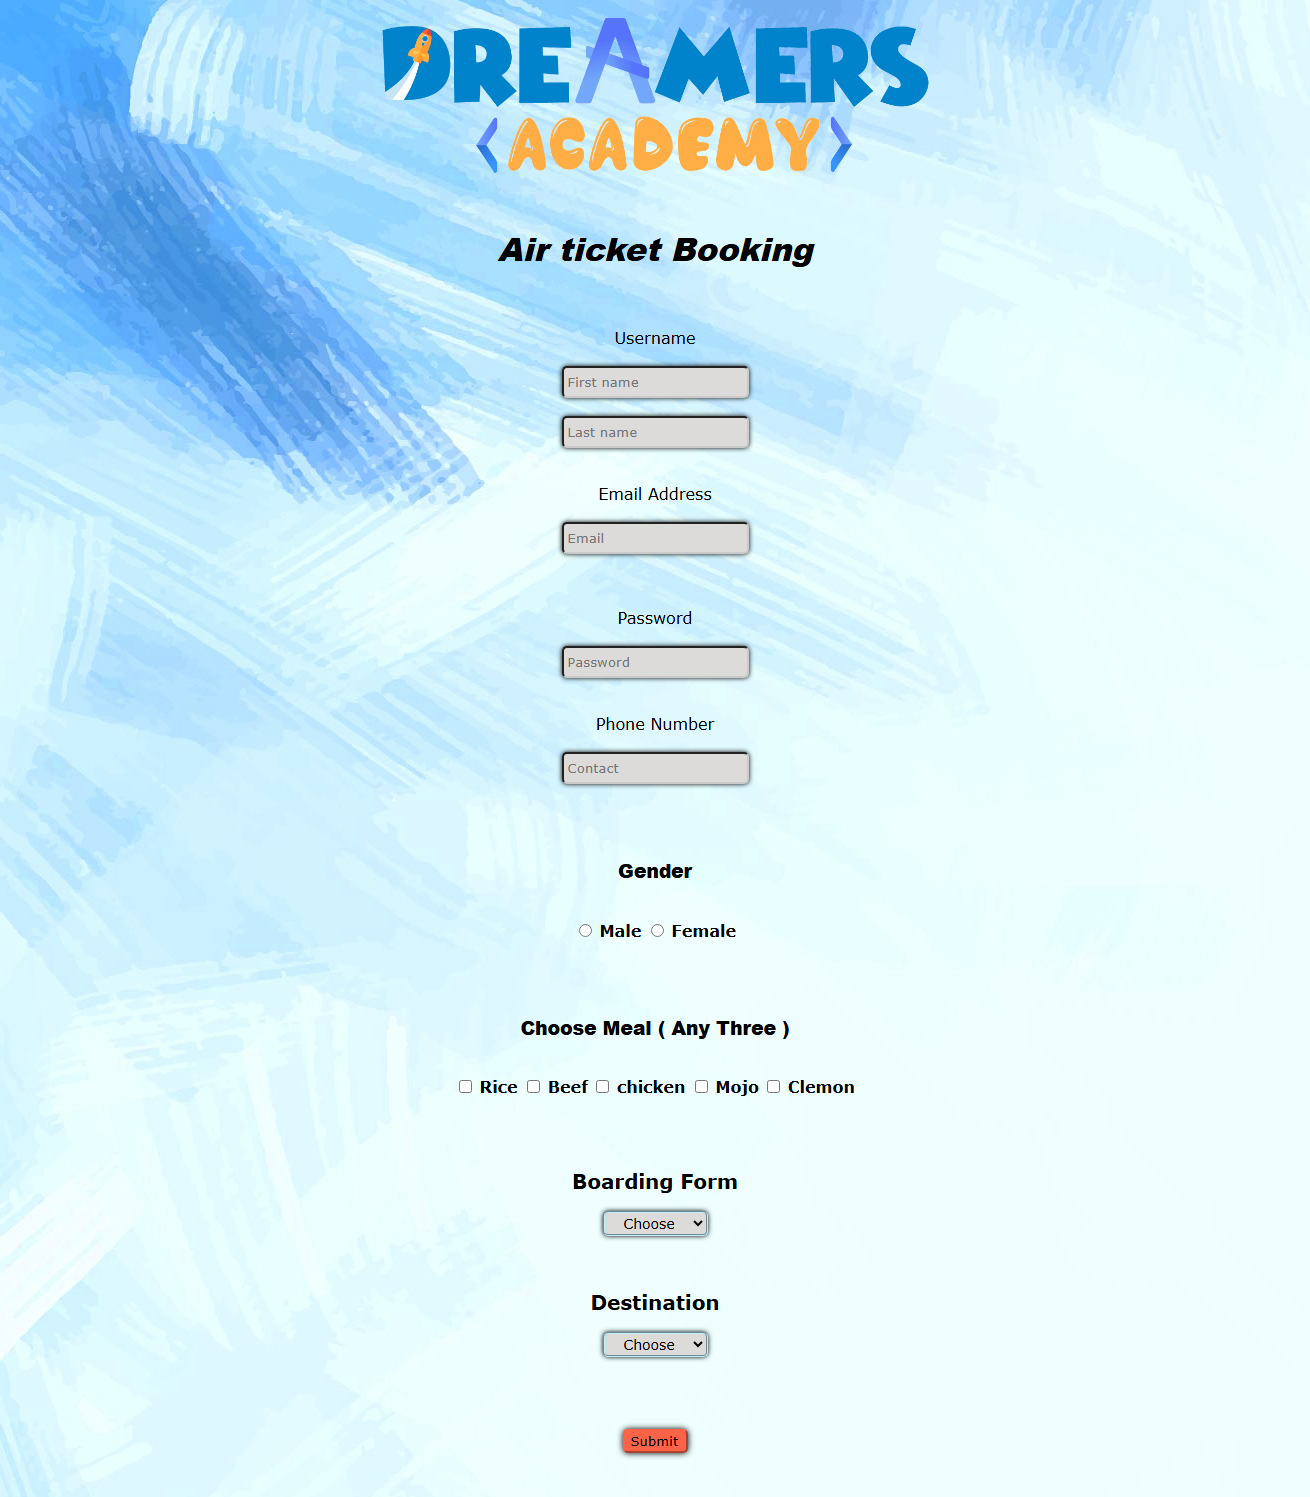
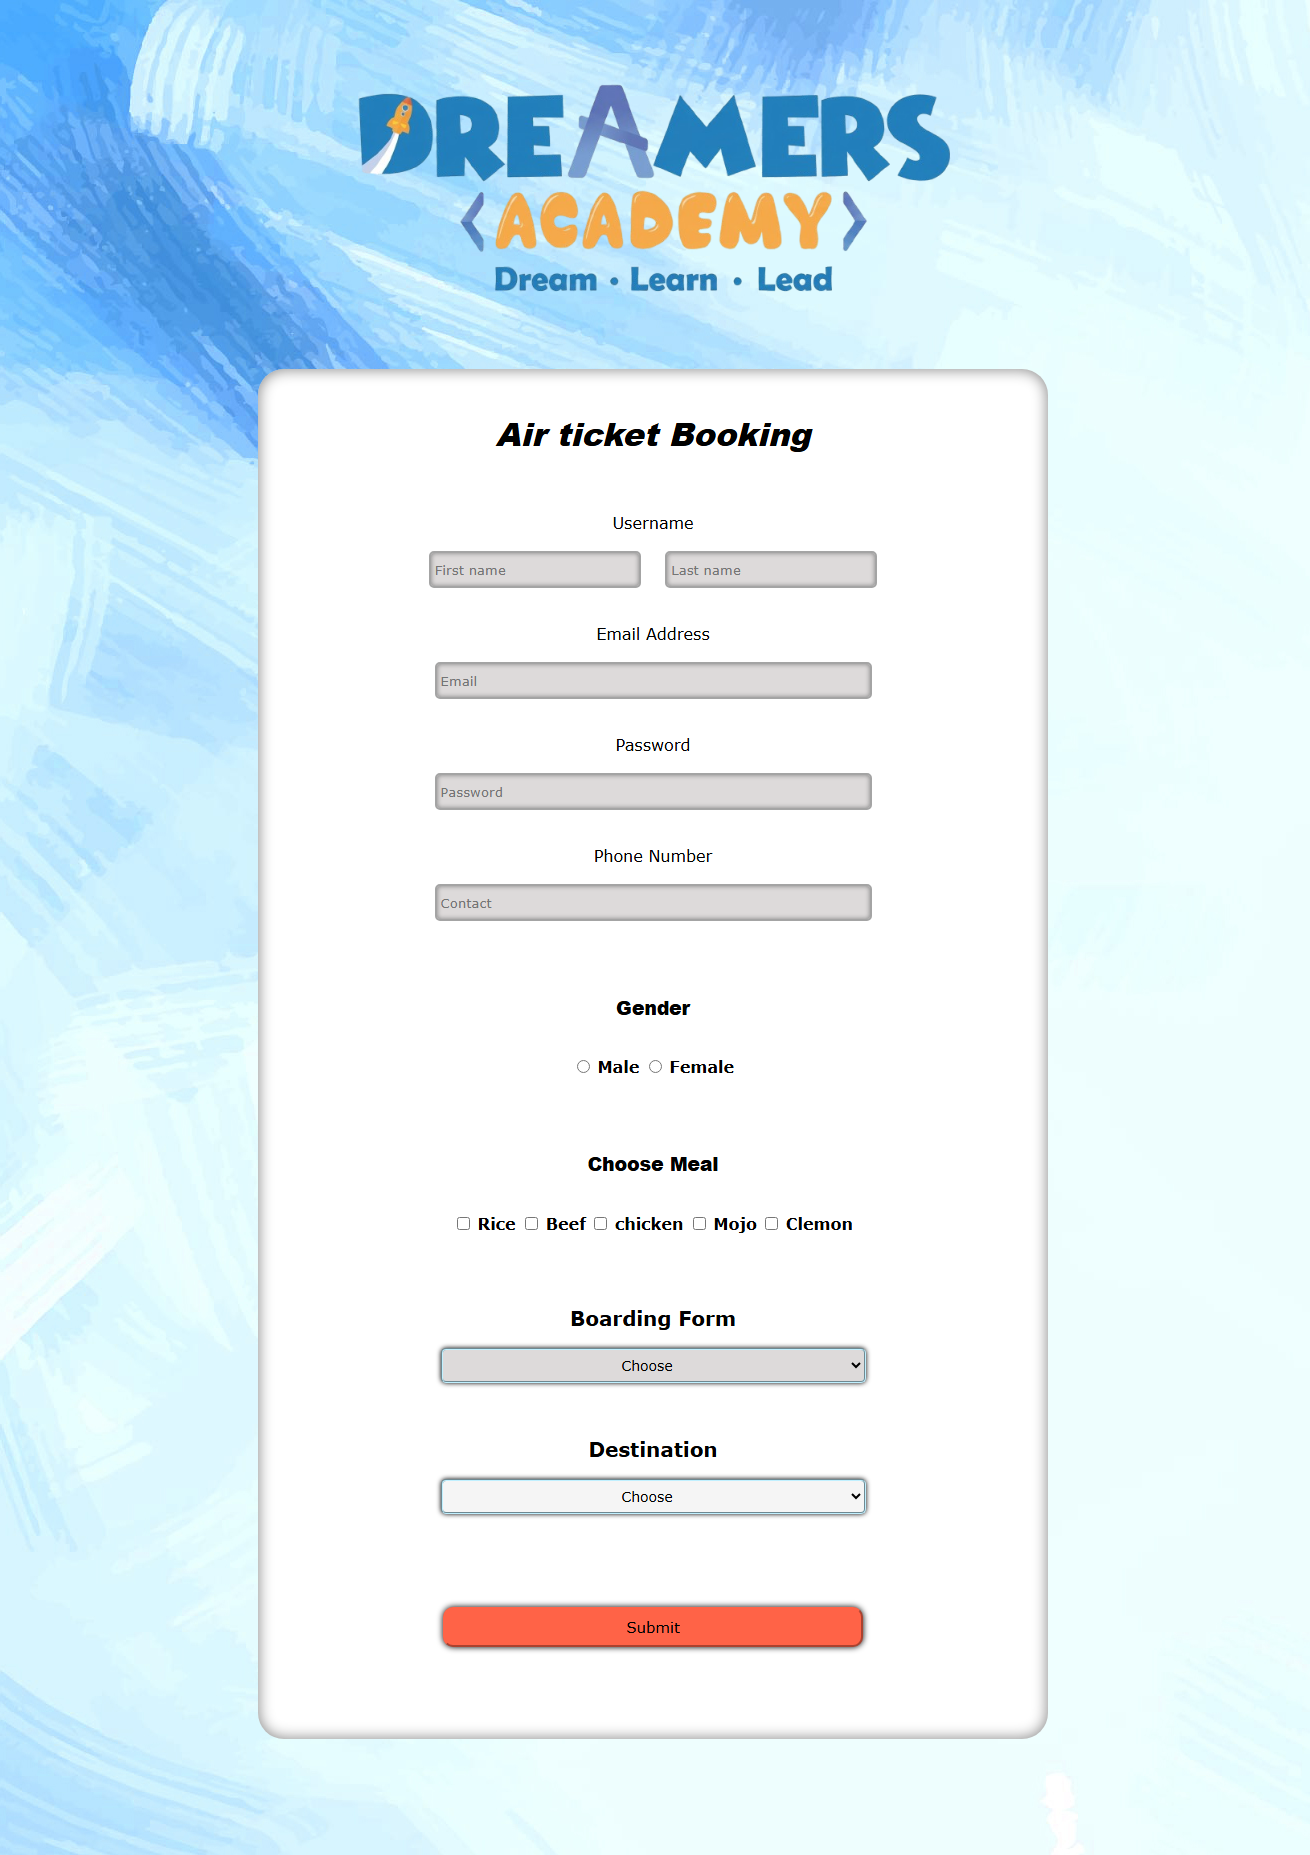
Initial commit - website setup

diff --git a/class 7 project.html b/class 7 project.html
@@ -7,75 +7,77 @@
     <link rel="stylesheet" href="class 7 project.css">
 </head>
     
-<body style="font-family: Verdana;">
+<body style="font-family: sans-serif; text-align: center;">
 
     
     <br><br><br>
     <img src="images/logo.png" alt="logo" width="50%"><br><br>
     <br><br>
-    <h1><b><i>Air ticket Booking</i></b></h1><br><br>
-    
-    <form action="class 7 (2) .project.html">
-        <label style="font-family: Verdana;">Username</label><br>
-        <br><input type="text" class="box1" id="fname" name="fname" placeholder="First name" style="cursor: text;"><br>
-        <br><input type="text" class="box1" id="lname" name="lname" placeholder="Last name" style="cursor: text;"><br>
-
-        <br><br><label style="font-family: Verdana;" >Email Address</label>
-        <br><br><input type="email" class="box1" id="email" name="email" placeholder="Email" style="cursor: text;"><br><br>
-        <br><br><label style="font-family: Verdana;">Password</label><br>
-       <br><input type="password" class="box1" id="Password" name="Password" placeholder="Password" style="cursor: text;"><br>
-       <br><br><label style="font-family: Verdana;">Phone Number</label><br>
-        <br><input type="number" class="box1" id="number" name="number" placeholder="Contact " style="cursor: text;"><br>
+    <div style="background-color: #FFFFFF; height: 1330px; width: 750px; border-radius: 26px; padding: 20px; margin-left: 250px; box-shadow: inset grey 0px 0px 15px;">
+        <h1><b><i>Air ticket Booking</i></b></h1><br><br>
         
-        <br><br><br><h3 style="cursor: default;"><b>Gender</b></h3><br>
-        <input type="radio" class="Gender" name="Gender" value="male" style="cursor: pointer;">
-        <label style="font-family: Verdana;"> <b>Male</b></label>
-        <input type="radio" class="Gender" name="Gender" value="female" style="cursor: pointer;">
-        <label style="font-family: Verdana;"> <b>Female</b></label><br><br>
+        <form onsubmit="return valid()" action="class 7 (2) .project.html">
+            <label style="font-family: Verdana;">Username</label><br>
+            <br><input type="text" class="box1" id="fname" name="fname" placeholder="First name" style="cursor: text;">
+            <input type="text" class="box1" id="lname" name="lname" placeholder="Last name" style="cursor: text;"><br>
 
-        <br><br><h3 style="cursor: default;"> <b>Choose Meal ( Any Three )</b> </h3><br>
-        <input type="checkbox" class="Meal" name="Choose Meal" value="rice" style="cursor: pointer;">
-        <label style="font-family: Verdana;"><b>Rice</b> </label>
-        <input type="checkbox" class="Meal" name="Choose Meal" value="beef" style="cursor: pointer;">
-        <label style="font-family: Verdana;"> <b>Beef</b></label>
-        <input type="checkbox" class="Meal" name="Choose Meal" value="chicken" style="cursor: pointer;">
-        <label style="font-family: Verdana;"><b>chicken</b> </label>
-        <input type="checkbox" class="Meal" name="Choose Meal" value="pepsi" style="cursor: pointer;">
-        <label style="font-family: Verdana;"><b>Mojo</b></label>
-        <input type="checkbox" class="Meal" name="Choose Meal" value="clemon" style="cursor: pointer;">
-        <label style="font-family: Verdana;"><b>Clemon</b></label><br><br><br>
-        <br><br><label style="font-family: Verdana; font-size: 20px;"><b>Boarding Form</b> </label>
-        
-        <br><br><select name="boarding" class="boarding" >
+            <br><br><label style="font-family: Verdana;" >Email Address</label>
+            <br><br><input type="email" class="box1" id="email" name="email" placeholder="Email" style="cursor: text;"><br>
+            <br><br><label style="font-family: Verdana;">Password</label><br>
+            <br><input type="password" class="box1" id="Password" name="Password" placeholder="Password" style="cursor: text;"><br>
+            <br><br><label style="font-family: Verdana;">Phone Number</label><br>
+            <br><input type="number" class="box1" id="number" name="number" placeholder="Contact " style="cursor: text;"><br>
             
-            <option>Choose</option>
-            <option  value="Dhaka">Dhaka</option>
-            <option  value="Chittagong">Chittagong</option>
-            <option  value="Cox's Bazar">Cox's Bazar</option>
-            <option  value="Sylhet">Sylhet</option>
-            <option  value="Rajshahi">Rajshahi</option>
-            <option  value="Saidpur">Saidpur</option>
-        </select><br><br>
-        <br><br><label style="font-family: Verdana; font-size: 20px;"><b>Destination</b></label>
+            <br><br><br><h3 style="cursor: default;"><b>Gender</b></h3><br>
+            <input type="radio" class="Gender" name="Gender" id="Gender" value="male" style="cursor: pointer;">
+            <label style="font-family: Verdana;"> <b>Male</b></label>
+            <input type="radio" class="Gender" name="Gender" id="Gender" value="female" style="cursor: pointer;">
+            <label style="font-family: Verdana;"> <b>Female</b></label><br><br>
 
-        <br><br><select name="destination" class="destination" >
+            <br><br><h3 style="cursor: default;"> <b>Choose Meal</b> </h3><br>
+            <input type="checkbox" class="Meal" name="Choose Meal" id="Meal" value="rice" style="cursor: pointer;">
+            <label style="font-family: Verdana;"><b>Rice</b> </label>
+            <input type="checkbox" class="Meal" name="Choose Meal" id="Meal" value="beef" style="cursor: pointer;">
+            <label style="font-family: Verdana;"> <b>Beef</b></label>
+            <input type="checkbox" class="Meal" name="Choose Meal" id="Meal" value="chicken" style="cursor: pointer;">
+            <label style="font-family: Verdana;"><b>chicken</b> </label>
+            <input type="checkbox" class="Meal" name="Choose Meal" id="Meal" value="pepsi" style="cursor: pointer;">
+            <label style="font-family: Verdana;"><b>Mojo</b></label>
+            <input type="checkbox" class="Meal" name="Choose Meal" id="Meal" value="clemon" style="cursor: pointer;">
+            <label style="font-family: Verdana;"><b>Clemon</b></label><br><br><br>
+            <br><br><label style="font-family: Verdana; font-size: 20px;"><b>Boarding Form</b> </label>
             
-            <option>Choose</option>
-            <option  value="Dhaka">Dhaka</option>
-            <option  value="Chittagong">Chittagong</option>
-            <option  value="Cox's Bazar">Cox's Bazar</option>
-            <option  value="Sylhet">Sylhet</option>
-            <option  value="Rajshahi">Rajshahi</option>
-            <option  value="Saidpur">Saidpur</option>
-        </select><br><br>
+            <br><br><select name="boarding" class="boarding" id="boarding">
+                
+                <option value="Choose">Choose</option>
+                <option  value="Dhaka">Dhaka</option>
+                <option  value="Chittagong">Chittagong</option>
+                <option  value="Cox's Bazar">Cox's Bazar</option>
+                <option  value="Sylhet">Sylhet</option>
+                <option  value="Rajshahi">Rajshahi</option>
+                <option  value="Saidpur">Saidpur</option>
+            </select><br><br>
+            <br><br><label style="font-family: Verdana; font-size: 20px;"><b>Destination</b></label>
 
+            <br><br><select name="destination" class="destination" id="destination">
+                
+                <option value="Choose">Choose</option>
+                <option  value="Dhaka">Dhaka</option>
+                <option  value="Chittagong">Chittagong</option>
+                <option  value="Cox's Bazar">Cox's Bazar</option>
+                <option  value="Sylhet">Sylhet</option>
+                <option  value="Rajshahi">Rajshahi</option>
+                <option  value="Saidpur">Saidpur</option>
+            </select><br><br><br>
 
+            <h4 id="error" style="color: red;"></h4>
 
-
-
-        <br><br><br><button style="cursor: pointer; width: 85px; text-align: center; height: 40px; border-radius: 10px; font-size: 15px;">Submit</button> <br><br><br>
+            <br><br><button onclick="valid()" style="cursor: pointer; width: 420px; text-align: center; height: 40px; border-radius: 10px; font-size: 15px;">Submit</button> <br><br><br>
+            
+        </form>
         
-    </form>
-    
+    </div>
+    <br><br><br><br><br><br>
+<script src="class 7 project.js"></script>   
 </body>
 </html>

diff --git a/class 7 project.css b/class 7 project.css
@@ -9,34 +9,59 @@ body {
 .box1{
     
     width: 175px;
-    height: 20px;
-    border: 2px dark black groove;
+    height: 25px;
+    border: 2px rgb(164, 164, 164) double;
     border-radius: 5px;
     box-shadow: 0px 0px 5px;
     padding: 4px;
     background-color: rgb(221, 218, 218);
     font-family: verdana;
+    box-shadow: inset grey 0px 0px 5px;
+    
     
 }
 
 .box1:hover{
     
     width: 175px;
-    height: 20px;
-    border: 2px dark black groove;
+    height: 25px;
+    border: 2px dark whitesmoke groove;
     border-radius: 5px;
     box-shadow: 0px 0px 5px;
     padding: 4px;
     background-color: whitesmoke;
     font-family: verdana;
+    box-shadow: inset rgb(197, 195, 195) 0px 0px 5px;
     
 }
 
+#fname{
+    margin-right: 20px;
+    height: 25px;
+    width: 200px;
+}
+
+#lname{
+    height: 25px;
+    width: 200px;
+}
+
+#email{
+    width: 425px;
+}
+
+#Password{
+    width: 425px;
+}
+
+#number{
+    width: 425px;
+}
 
 .boarding{
     text-align: center;
-    width: 105px;
-    height: 25px;
+    width: 425px;
+    height: 35px;
     border: 2px lightblue groove;
     border-radius: 5px;
     box-shadow: 0px 0px 5px;
@@ -48,8 +73,8 @@ body {
 
 .boarding:hover{
 
-    width: 105px;
-    height: 25px;
+    width: 425px;
+    height: 35px;
     border: 2px lightblue groove;
     border-radius: 5px;
     box-shadow: 0px 0px 5px;
@@ -61,8 +86,8 @@ body {
 .destination{
     text-align: center;
 
-    width: 105px;
-    height: 25px;
+    width: 425px;
+    height: 35px;
     border: 2px lightblue groove;
     border-radius: 5px;
     box-shadow: 0px 0px 5px;
@@ -74,8 +99,8 @@ body {
 .destination:hover{
     text-align: center;
 
-    width: 105px;
-    height: 25px;
+    width: 425px;
+    height: 35px;
     border: 2px lightblue groove;
     border-radius: 5px;
     box-shadow: 0px 0px 5px;
@@ -104,7 +129,7 @@ Button:hover{
     font-family: verdana;
     border-radius: 5px;
     box-shadow: 0px 0px 6px;
-    border-color: lightblue  ;
+    border-color: blue  ;
     text-align: left;
 
 

diff --git a/class 11 26.7.26 .css b/class 11 26.7.26 .css
@@ -4,7 +4,7 @@ body{
     margin-right: 120px;
     font-family: sans-serif;
     background: url(images/BG.png);
-    background-size: 2140px;
+    background-size: 2160px;
 }
 
 
@@ -14,6 +14,14 @@ body{
     float: right;
     font-size: 20px;
     color: rgb(6, 6, 218);
+
+}
+
+#btnl:hover{
+    text-decoration: none;
+    float: right;
+    font-size: 20px;
+    color: rgb(244, 174, 35);
 
 }
 
@@ -34,36 +42,42 @@ body{
 }
 
 .box1{
+    border: 2px black double;
     height: 25px;
     width: 240px;
     background-color: rgb(176, 178, 180);
 }
 
 .box1:hover{
+    border: 2px black double;
     height: 25px;
     width: 240px;
     background-color: whitesmoke;
 }
 
 .box2{
+    border: 2px black double;
     height: 30px;
     width: 510px;
     background-color: rgb(176, 178, 180);
 }
 
 .box2:hover{
+    border: 2px black double;
     height: 30px;
     width: 510px;
     background-color: whitesmoke;
 }
 
 .box3{
+    border: 2px black double;
     height: 25px;
     width: 346px;
     background-color: rgb(176, 178, 180);
 }
 
 .box3:hover{
+    border: 2px black double;
     height: 25px;
     width: 346px;
     background-color: whitesmoke;
@@ -80,9 +94,10 @@ body{
     background-color: rgb(11, 11, 187);
     color: whitesmoke;
     padding: 10px;
-    border-color: blue groove;
+    border-color: rgb(11, 11, 187);
+    border:2px rgb(11, 11, 187) double;
     border-radius: 12px;
-    width: 170px;
+    width: 200px;
     
     
 }
@@ -93,9 +108,10 @@ body{
     background-color: lightblue;
     color: black;
     padding: 10px;
-    border-color: blue groove;
+    border-color: lightblue;
     border-radius: 12px;
-    width: 170px;
+    border:2px lightblue double;
+    width: 200px;
     
 }
 

diff --git a/class 7 project.js b/class 7 project.js
@@ -1,0 +1,48 @@
+var fname = document.querySelector("#fname");
+var lname =document.querySelector("#lname");
+var email =document.querySelector("#email");
+var Password =document.querySelector("#Password");
+var number =document.querySelector("#number");
+var Gender =document.querySelector("#Gender");
+var Meal =document.querySelector("#Meal");
+var boarding =document.querySelector("#boarding");
+var destination =document.querySelector("#destination");
+
+var error =document.querySelector("#error");
+
+function valid(){
+    if (fname.value == "") {
+        error.innerHTML = "First name is required";
+        return false;
+    }
+
+    else if (lname.value == "") {
+        error.innerHTML = "Last name is required";
+        return false;
+    }
+
+    else if (email.value == "") {
+        error.innerHTML = "Email is required";
+        return false; 
+    }
+
+    else if (Password.value.length < 8) {
+        error.innerHTML = "Password must be at least 8 characters long";
+        return false; 
+    }
+
+    else if (number.value.length != 11) {
+        error.innerHTML = "Mobile Number must have 11 digits";
+        return false; 
+    }
+
+    else if (boarding.value == "Choose") {
+        error.innerHTML = "Boarding is required";
+        return false; 
+    }
+
+    else if (destination.value == "Choose") {
+        error.innerHTML = "Destination is required";
+        return false; 
+    }
+}
